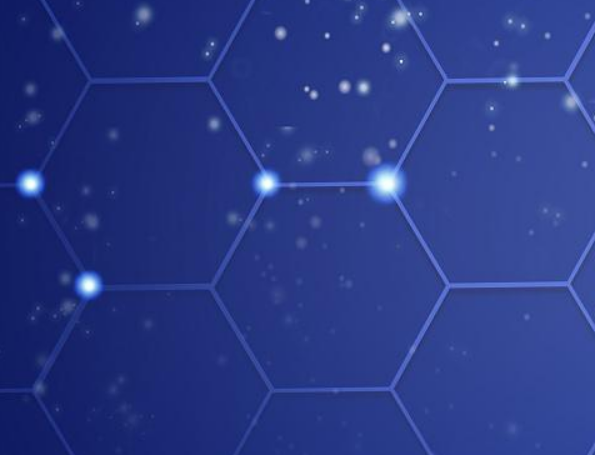
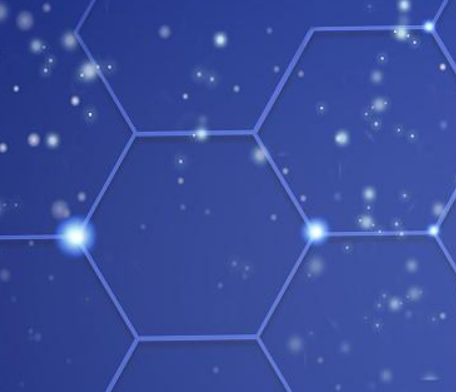
登录

diff --git a/src/views/loginregisration/Login.vue b/src/views/loginregisration/Login.vue
@@ -1,13 +1,13 @@
 <template>
     <div class="wrap">
-        <el-row class="header"><img src="../../assets/images/title-img.png" class="icon_title" alt=""></el-row>
+        <el-row class="header"><span class="header-title">学客后台管理系统</span></el-row>
         <el-row class="main flex-lc_mc">
             <el-row class="background-img">
                 <img src="../../assets/images/background-img.png" class="bg_img" alt="">
             </el-row>
             <el-row class="login-outside">
                 <el-form :model="ruleForm" status-icon :rules="rules" ref="ruleForm" label-width="" class="demo-ruleForm">
-                <center><h3 class="title">账号密码登录</h3></center>
+                <center><h2 class="title">账号密码登录</h2></center>
                         <el-form-item class="ipt-out" prop="userName">
                         <el-input prefix-icon="../../assets/images/icon_user.png" type="text" class="ipt" v-model="ruleForm.userName" placeholder="请输入您的用户名" autocomplete="off"></el-input>
                         <img src="../../assets/images/icon_user.png" class="icon_tips" alt="">
@@ -32,6 +32,10 @@
                     <el-button class="btn-login" type="primary" @click="submitForm('ruleForm'),loginUser()">登录</el-button>
                   </center>
                 </el-form-item>
+                  <el-row class="text-btm">
+                    <el-col :span='12' class="text-l ft-16">忘记密码?</el-col>
+                    <el-col :span='12' class="text-r ft-16" @click="toRegister">立即注册</el-col>
+                  </el-row>
                 </el-form>
             </el-row>
         </el-row>
@@ -47,21 +51,21 @@ export default{
      data() {
       var checkAge = (rule, value, callback) => {
         if (!value) {
-          return callback(new Error('验证码不能为空'));
+          this.$message('验证码不能为空');
         }else{
           callback();
         }
       };
       var validatePass = (rule, value, callback) => {
         if (value === '') {
-          callback(new Error('请输入账号'));
+          this.$message('请输入账号');
         } else {
           callback();
         }
       };
       var validatePass2 = (rule, value, callback) => {
         if (value === '') {
-          callback(new Error('请再次输入密码'));
+          this.$message('请输入密码');
         } else {
           callback();
         }
@@ -90,9 +94,9 @@ export default{
       submitForm(formName) {
         this.$refs[formName].validate((valid) => {
           if (valid) {
-            alert('提交信息!');
+            this.$message('提交信息');
           } else {
-            console.log('提交信息有误!!');
+            this.$message('提交信息有误');
             return false;
           }
         });
@@ -100,8 +104,12 @@ export default{
       resetForm(formName) {
         this.$refs[formName].resetFields();
       },
+      toRegister(){
+        this.$router.push({
+          name:"Registration",
+        })
+      },
       async loginUser(){
-        console.log(this.ruleForm.userName);
          if(this.ruleForm.userName.indexOf(" ")!=-1){
           this.$message('提交失败账号不能包含空格');
          }else if(this.ruleForm.userName.length<6){
@@ -129,16 +137,20 @@ export default{
 <style scoped>
     .header{
         height: 66px;
+        display: flex;
+        align-items: center;
     }
     .footer{
         height: 110px;
         font-size: 18px;
         font-weight: 600;
+        display: flex;
+        align-items: center;
+        justify-content: center;
     }
     .flex-lc_mc{
         display: flex;
         align-items: center;
-        justify-content: center;
     }
     .main{
         position: relative;
@@ -146,10 +158,6 @@ export default{
         background-color:#202e77;
         display: flex;
         align-items: center;
-    }
-    .bg_img{
-        width:599px;
-        height: 455px;
     }
     .login-outside{
         position: absolute;
@@ -160,40 +168,56 @@ export default{
         border-radius: 5px;
     }
     .title{
-      padding: 20px;
-      font-weight: 800;
+      padding-top: 64px;
+      padding-bottom: 4px;
     }
-    .ipt{
-      width: 412px;
-      height: 45px;
-      margin: 20px;
-    }
-    .ipt-code{
-      width: 262px;
-      height: 45px;
-      margin-left: 20px;
+    .header-title{
+      padding-left: 30px;
+      font-size: 30px;
+      color:#409eff;
     }
     .btn-login{
-      width: 412px;
+      width: 356px;
       height:45px;
     }
     .ipt-out{
       position:relative;
+      margin: 25px 20px;
     }
    .icon_tips{
      position: absolute;
-     left:30px;
-     top: 33px;
+     left:10px;
+     top: 10px;
    }
   .code-out{
     position: relative;
   }
   .icon_tips2{
     position: absolute;
-    left: 30px;
+    left: 10px;
     top: 12px;
   }
   .icon_title{
     padding-left: 80px;
+    width:160px;
+    height: 30px;
+  }
+  .text-l{
+    display: flex;
+    align-items: center;
+    padding-left: 30px;
+  }
+  .text-r{
+    display: flex;
+    align-items: center;
+    justify-content: flex-end;
+    padding-right: 30px;
+  }
+  ft-16{
+    font-size: 16px;
+    font-weight: 800;
+  }
+  .text-btm{
+    margin-bottom: 30px;
   }
 </style>
